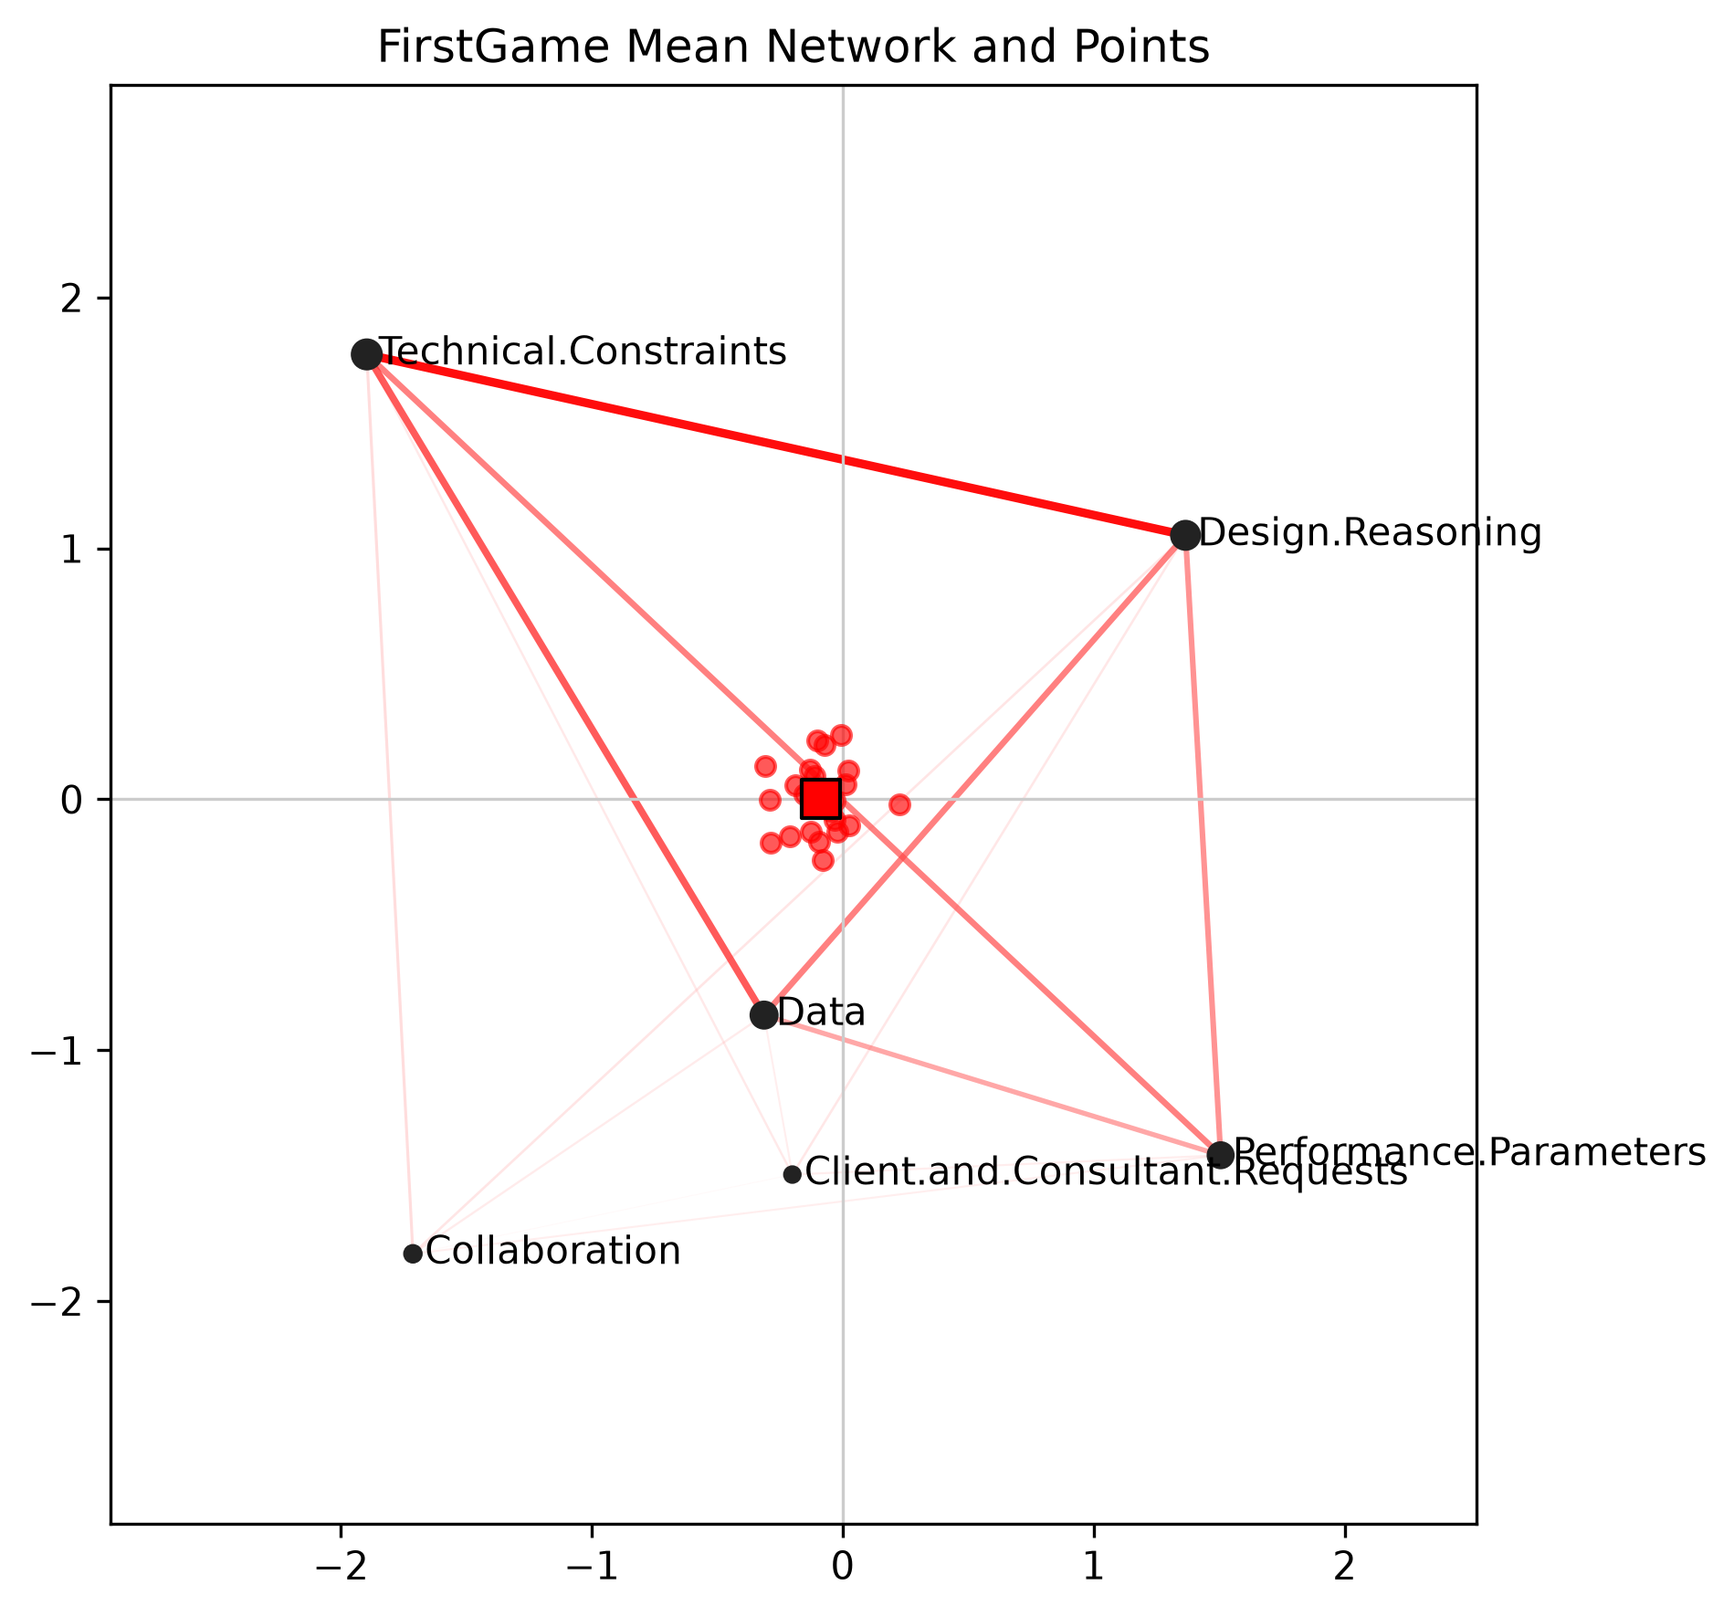
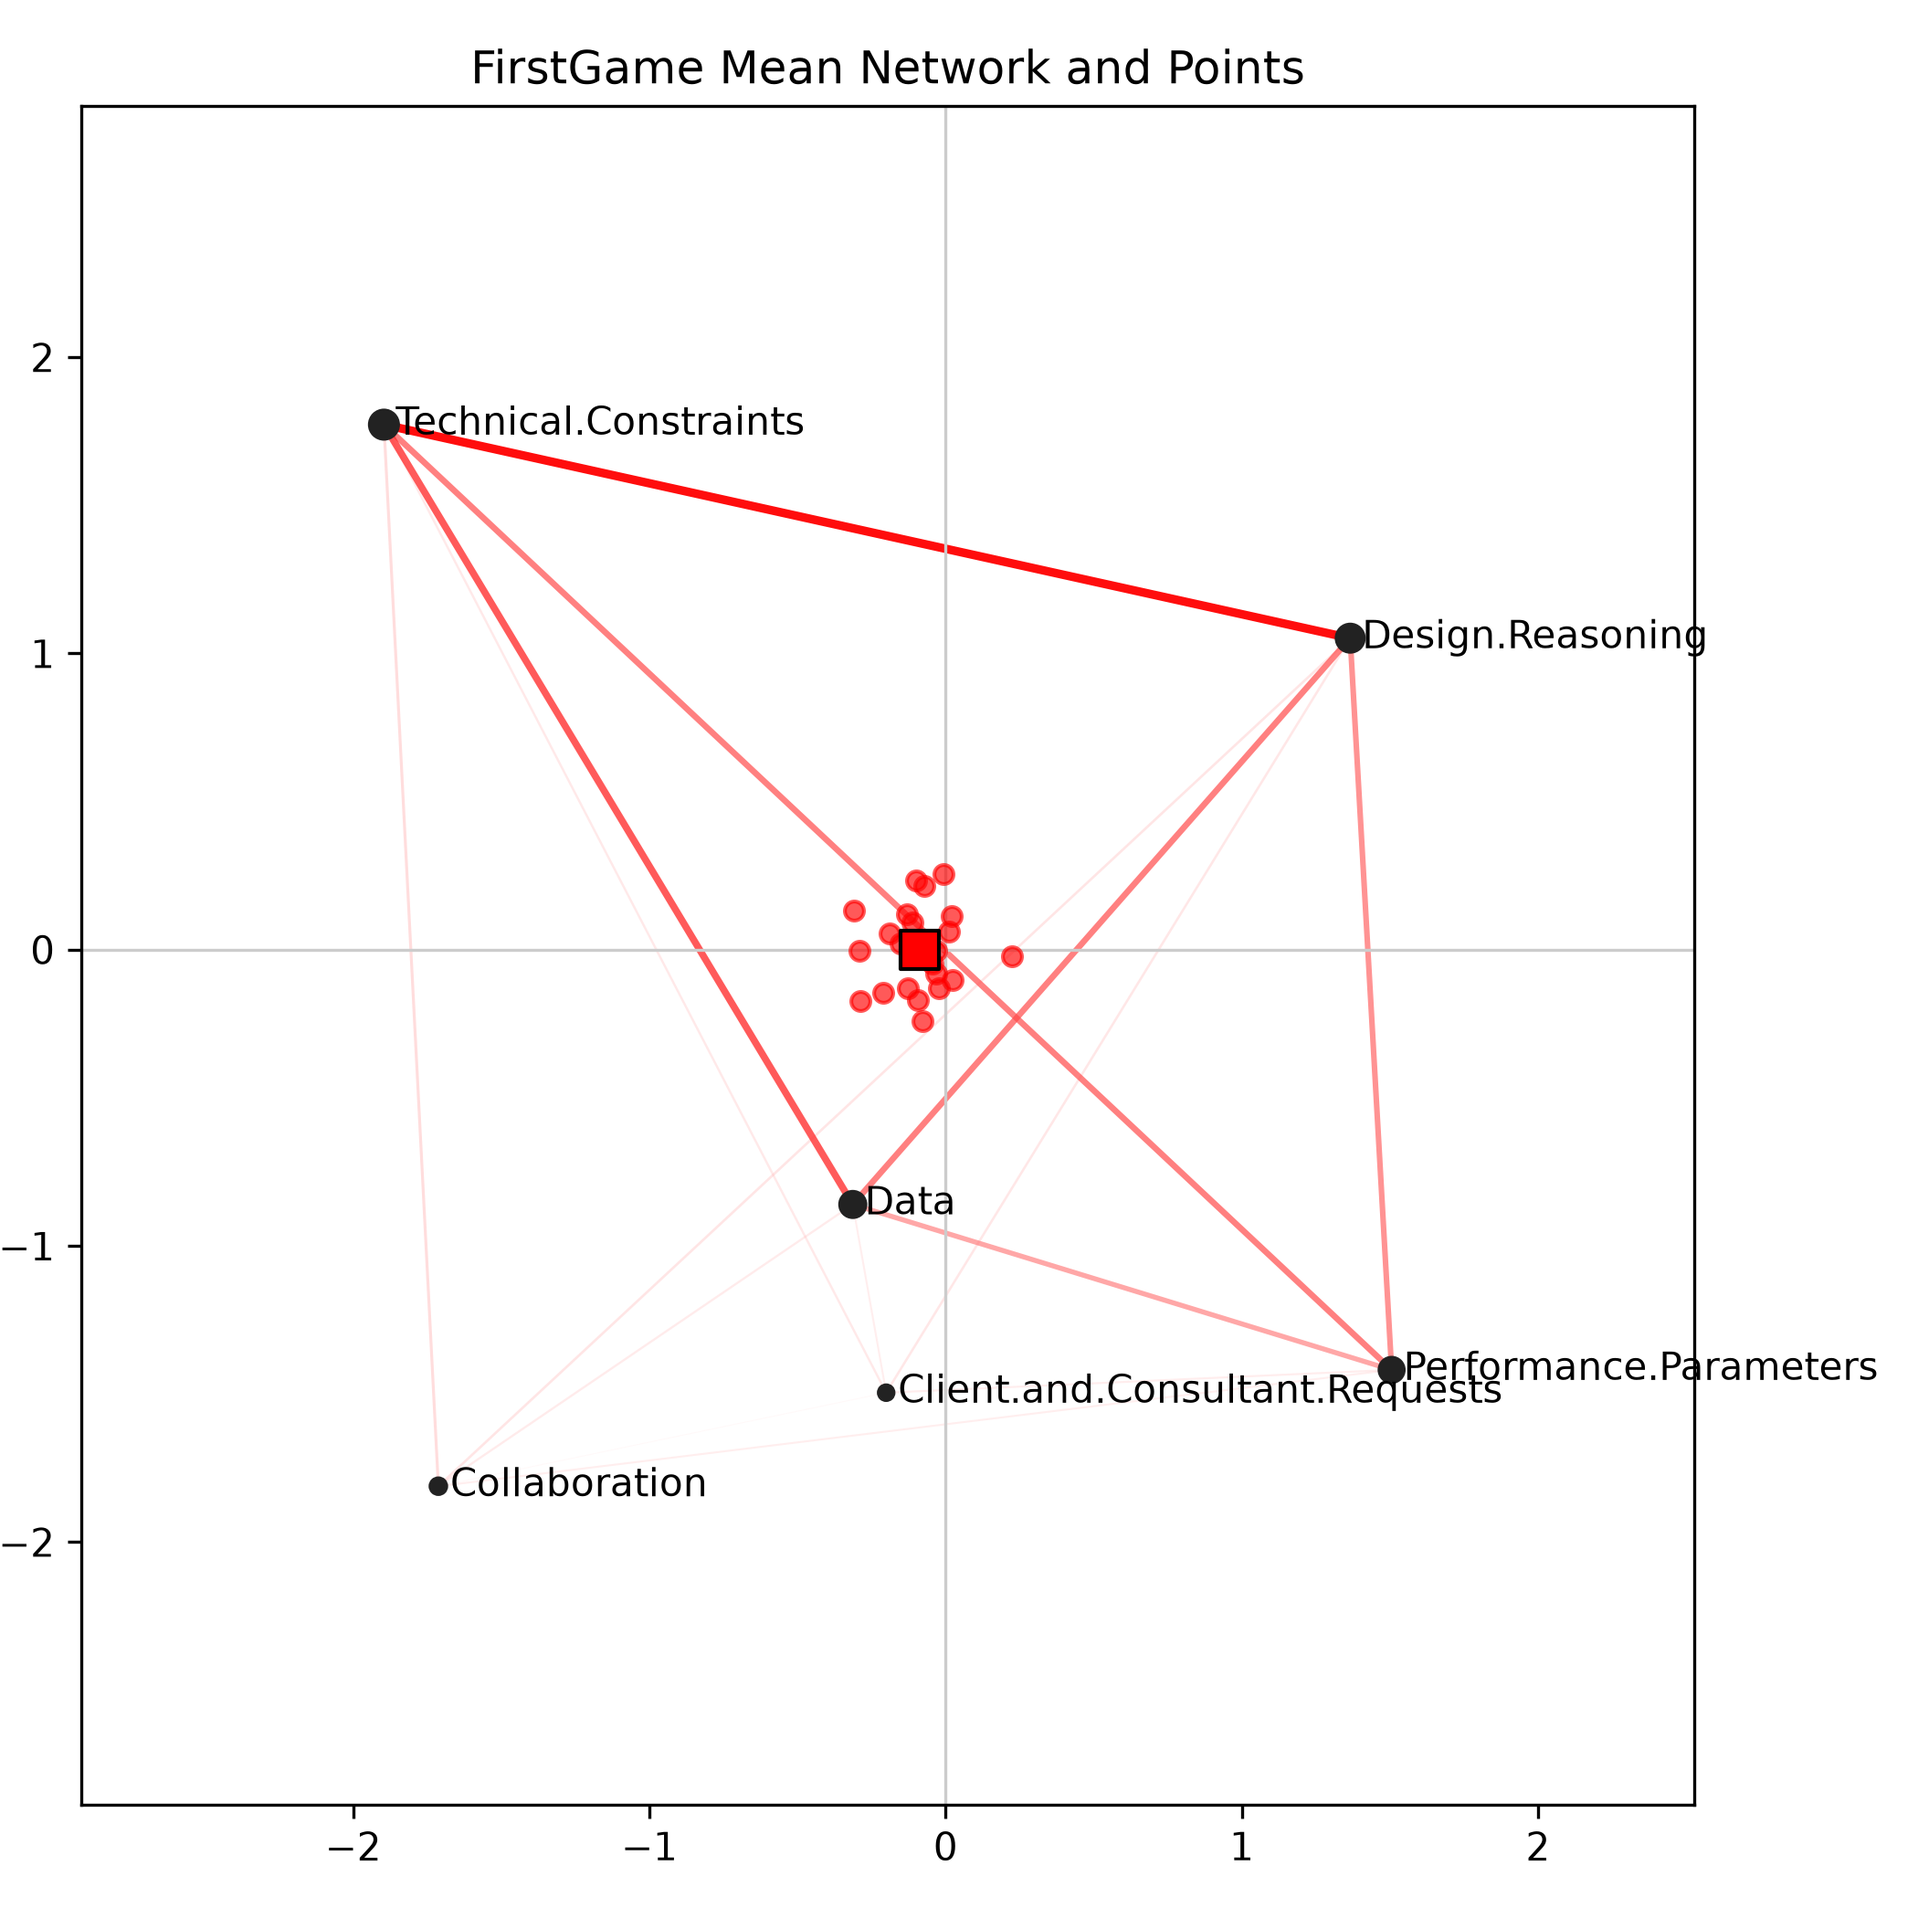
set figure w:h=1:1

diff --git a/src/pyena/rena.py b/src/pyena/rena.py
@@ -11,6 +11,7 @@ import numpy as np
 
 
 Record = Mapping[str, object]
+DEFAULT_FIGSIZE = (7, 7)
 
 
 def read_csv_records(path: str | Path) -> list[dict[str, object]]:
@@ -767,7 +768,7 @@ def create_points_ci_plot(
     color: str,
     label: str,
     title: str,
-    figsize: tuple[float, float] = (6, 6),
+    figsize: tuple[float, float] = DEFAULT_FIGSIZE,
 ):
     import matplotlib.pyplot as plt
 
@@ -782,7 +783,7 @@ def create_points_ci_plot(
 def create_points_ci_overlay_plot(
     point_groups: Sequence[tuple[np.ndarray, str, str]],
     title: str,
-    figsize: tuple[float, float] = (7, 6),
+    figsize: tuple[float, float] = DEFAULT_FIGSIZE,
 ):
     import matplotlib.pyplot as plt
 
@@ -799,7 +800,7 @@ def create_network_plot(
     ena_set: ENASet,
     network: np.ndarray,
     title: str,
-    figsize: tuple[float, float] = (7, 6),
+    figsize: tuple[float, float] = DEFAULT_FIGSIZE,
     show_legend: bool = False,
     legend_labels: tuple[str, str] = ("Positive edges", "Negative edges"),
     line_colors: tuple[str, str] = ("#ff0000", "#0000ff"),
@@ -824,7 +825,7 @@ def create_network_with_point_groups_plot(
     network: np.ndarray,
     point_groups: Sequence[dict[str, object]],
     title: str,
-    figsize: tuple[float, float] = (7, 6),
+    figsize: tuple[float, float] = DEFAULT_FIGSIZE,
     show_legend: bool = False,
     line_colors: tuple[str, str] = ("#ff0000", "#0000ff"),
 ):
@@ -856,7 +857,7 @@ def create_individual_network_plot(
     point_color: str,
     title: str,
     point_label: str | None = None,
-    figsize: tuple[float, float] = (7, 6),
+    figsize: tuple[float, float] = DEFAULT_FIGSIZE,
     point_size: float = 80.0,
     show_legend: bool = False,
     line_colors: tuple[str, str] = ("#ff0000", "#0000ff"),
@@ -885,7 +886,7 @@ def save_figure(fig, path: str | Path) -> None:
     import matplotlib.pyplot as plt
 
     fig.tight_layout()
-    fig.savefig(path, dpi=300, bbox_inches="tight")
+    fig.savefig(path, dpi=300)
     plt.close(fig)
 
 
@@ -1451,7 +1452,7 @@ def plot_network(
         ) from exc
 
     if ax is None:
-        _, ax = plt.subplots(figsize=(6, 6))
+        _, ax = plt.subplots(figsize=DEFAULT_FIGSIZE)
 
     legend_handles = None
     if show_legend:
